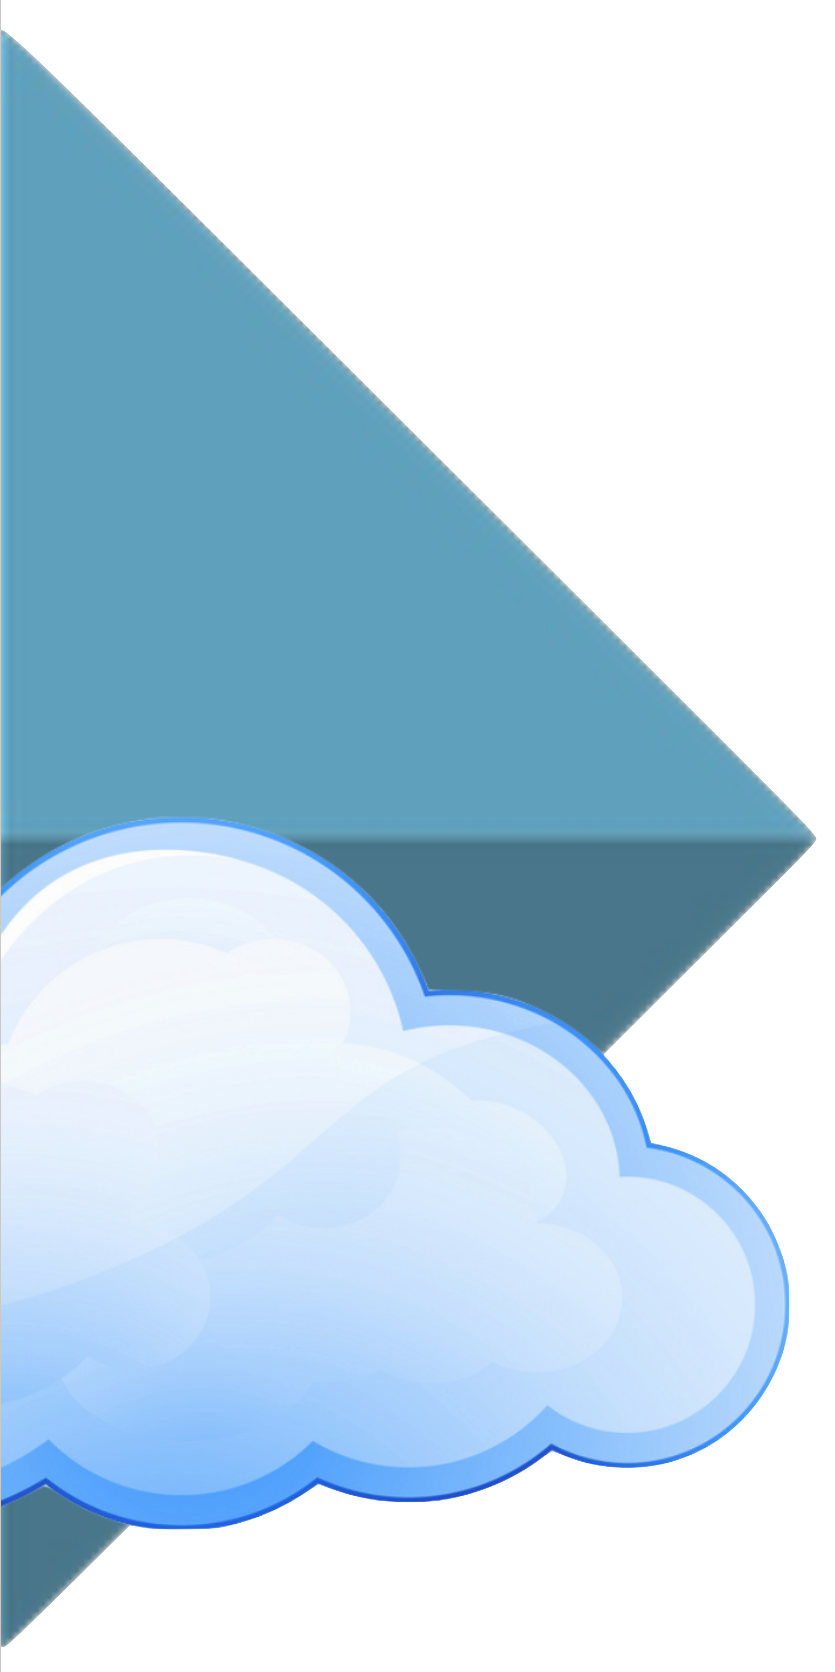
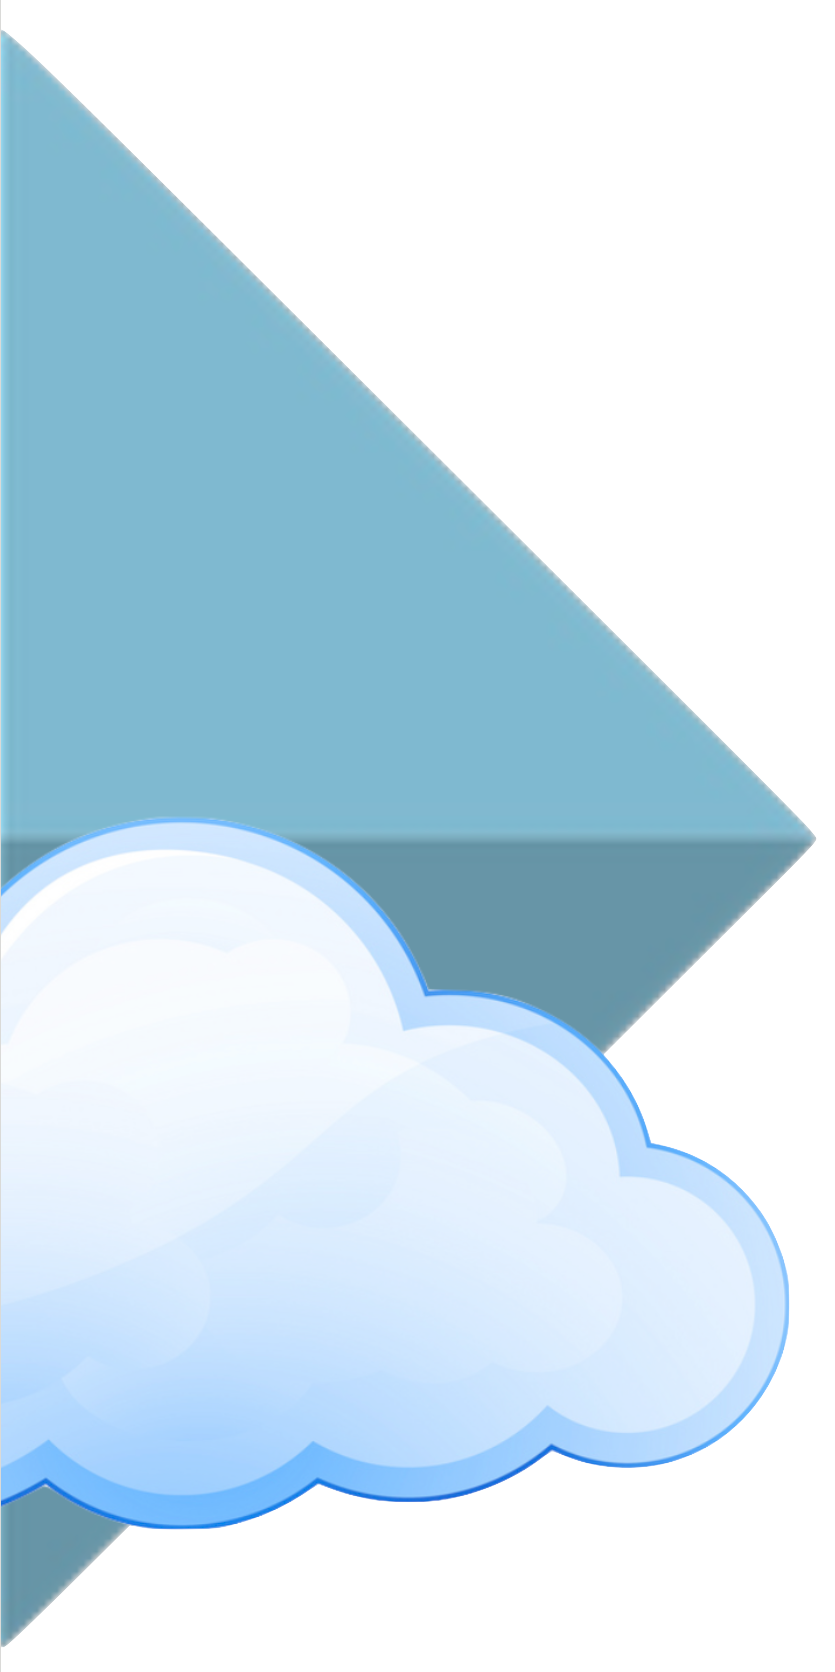
pale login background

diff --git a/css/cofe.theme.aliceblue.css b/css/cofe.theme.aliceblue.css
@@ -39,6 +39,8 @@
   margin              : 0;
   padding             : 0;
   background-image    : url("../images_png/background_login.png");
+  /* background-color: rgba(243,250,255,0.0);
+  background-blend-mode: lighten; */
   /* background-size: auto 120vh; */
   background-size     : 30vw auto;
   /* background-size     : 480px auto; */
